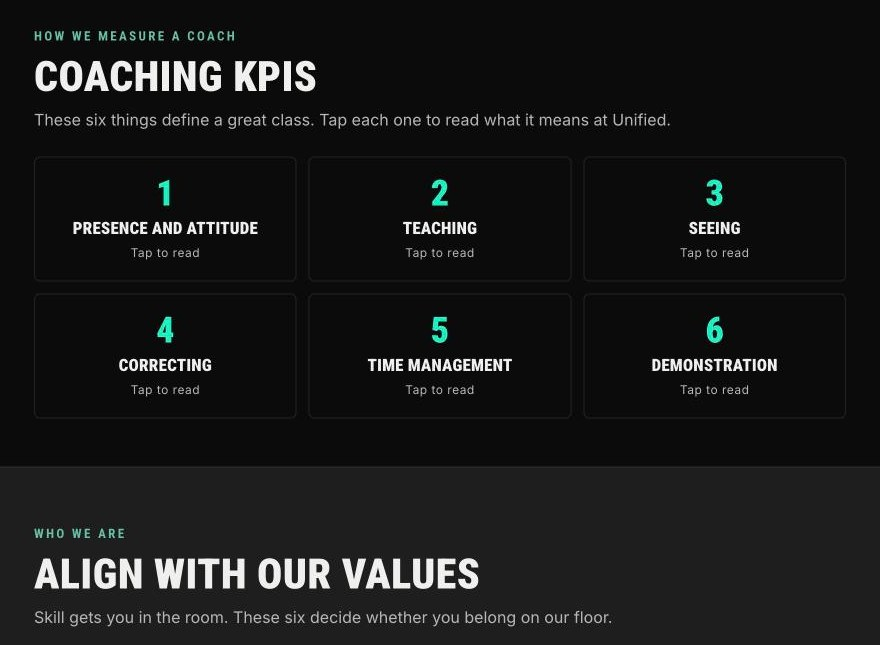
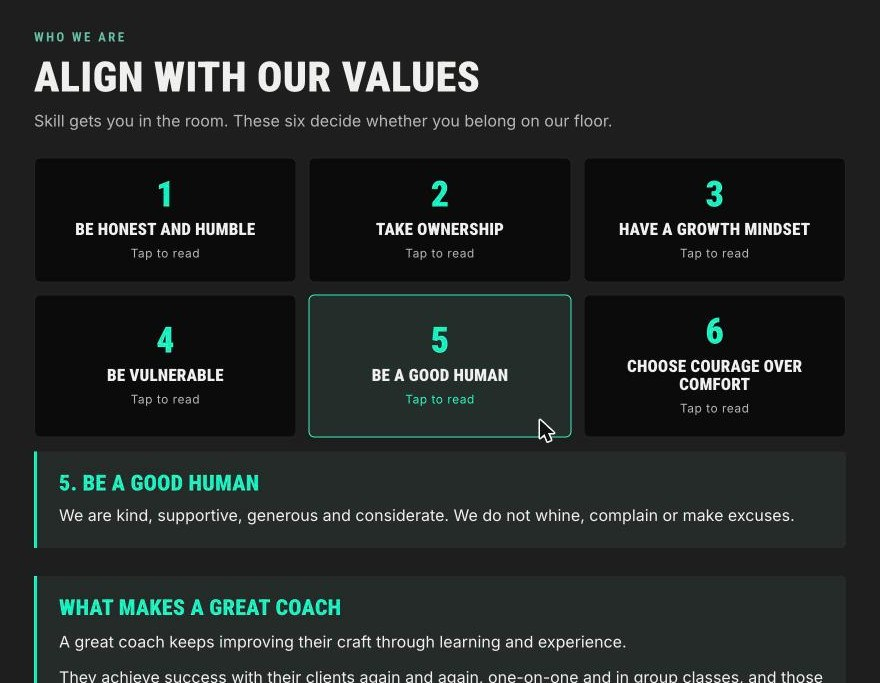
Add files via upload

diff --git a/systems.html b/systems.html
@@ -82,6 +82,19 @@
     </ol>
   </section>
 
+  <section class="block" id="season">
+    <div class="wide-copy">
+      <p class="tag">Seasonal flow</p>
+      <h2>A keyword that feeds the Black Friday page</h2>
+      <p>The same pattern runs a seasonal offer. Someone comments or messages SEASON and gets the free class schedule with a button to claim three classes. The button opens the Black Friday landing page.</p>
+      <p>A click tags the contact. After 23 hours, anyone with the tag gets the BRIK Strength Primer. Anyone without it gets a reminder that the classes are still waiting.</p>
+    </div>
+    <figure class="snap wide">
+      <a class="scroll" href="images/manychat-season-flow.png" target="_blank" rel="noopener" aria-label="Open the full size screenshot of the SEASON flow in a new tab"><img src="images/manychat-season-flow.png" width="2000" height="617" loading="lazy" alt="Screenshot of the SEASON automation in ManyChat. A message containing SEASON sends a text with an Unwrap my classes button, then the free class schedule image with a Claim 3 free classes button. A click adds the season-link-clicked tag. After a 23 hour delay a condition checks the tag: contacts with it get the BRIK Strength Primer, and contacts without it get a reminder that their classes are waiting."></a>
+      <figcaption>The live flow in ManyChat. The counts are early. Tap the image to open it full size.</figcaption>
+    </figure>
+  </section>
+
   <section class="block" id="site">
     <div>
       <p class="tag">The front end</p>
@@ -164,8 +177,8 @@
       <div class="tools coach">
         <div><h3>Macro calculator</h3><p>Coaches use it to give a member a baseline for daily calories and macros, then adjust at each meeting or session based on how the member's results and energy levels are trending. Nothing a member enters is saved or sent. I am now building a standalone app that would add Apple Health and Polar integrations.</p><a class="btn" href="macro-calculator.html">Open the calculator</a></div>
         <div><h3>Workout timer</h3><p>A large clock for the gym TV with AMRAP, EMOM, interval and stopwatch modes. It starts up to six groups in separate waves, so a staggered start can match the number of members to the equipment. Class management is a big part of our coaching KPIs, which come from the CrossFit Level 2 seminar: run every class inside a 45 to 60 minute window. The staggered start has cut confusion and questions and improved class flow.</p><a class="btn" href="https://www.unifiedfitguam.com/timer" target="_blank" rel="noopener">Open the timer</a></div>
-        <div><h3>Coach operations SOP</h3><p>Opening and closing, attendance, drop-ins, retail and coaching KPIs, plus a minute-by-minute lesson plan for a 60 minute class. The page is private to staff, so this is a screenshot of one section.</p><figure class="snap"><img src="images/snap-coach-sop.jpg" width="880" height="688" loading="lazy" alt="Screenshot of the Lesson Plan section of the coach operations SOP, listing the first five blocks of a 60 minute class with their time ranges"><figcaption>The lesson plan section of the SOP</figcaption></figure></div>
-        <div><h3>Coach expectations</h3><p>Shared personally with coaching applicants. It sets out the six coaching KPIs, the values we hire for, the handbook and availability. Private, so this is a screenshot of the opening sections.</p><figure class="snap"><img src="images/snap-coach-expectations.jpg" width="880" height="645" loading="lazy" alt="Screenshot of the coach expectations page showing the six coaching KPIs and the start of the values section"><figcaption>The KPIs and values sections for applicants</figcaption></figure></div>
+        <div><h3>Coach operations SOP</h3><p>Opening and closing, attendance, drop-ins, retail and coaching KPIs, plus a minute-by-minute lesson plan for a 60 minute class. Each KPI card opens to explain what it means in our gym. The page is private to staff, so this is a recording of one section.</p><figure class="snap"><picture><source media="(prefers-reduced-motion: reduce)" srcset="images/snap-coach-sop.jpg"><img src="images/snap-coach-sop.gif" width="760" height="589" loading="lazy" alt="Recording of the coaching KPIs section of the coach operations SOP. Tapping Teaching, Seeing and then Time management opens a short explanation under the cards each time."></picture><figcaption>Tap a card and the SOP explains it. Recording of the live page.</figcaption></figure></div>
+        <div><h3>Coach expectations</h3><p>Shared personally with coaching applicants. It sets out the six coaching KPIs, the values we hire for, the handbook and availability. Private, so this is a recording of the values section, where each card opens when tapped.</p><figure class="snap"><picture><source media="(prefers-reduced-motion: reduce)" srcset="images/snap-coach-expectations.jpg"><img src="images/snap-coach-expectations.gif" width="760" height="589" loading="lazy" alt="Recording of the values section of the coach expectations page. Tapping Be honest and humble, Take ownership and Be a good human opens a one line explanation under the cards each time."></picture><figcaption>Applicants tap each value to read what it means. Recording of the live page.</figcaption></figure></div>
       </div>
     </div>
   </section>

diff --git a/styles.css b/styles.css
@@ -446,3 +446,11 @@ footer{background:var(--black);color:var(--grey);padding-top:22px;padding-bottom
 .snap{margin:16px 0 0;max-width:520px;}
 .snap img{display:block;width:100%;height:auto;border:1px solid rgba(242,242,238,.18);border-top:3px solid var(--spark);}
 .snap figcaption{margin-top:8px;font-size:14px;line-height:1.4;color:#B8B8B2;}
+
+.wide-copy{grid-column:1/-1;max-width:46em;}
+.snap.wide{grid-column:1/-1;max-width:none;margin:0;}
+.snap.wide .scroll{display:block;overflow-x:auto;}
+.snap.wide img{border-top-color:var(--spark);}
+@media (max-width:700px){.snap.wide img{min-width:920px;}}
+.snap.wide,.wide-copy{min-width:0;}
+@media (max-width:700px){#season{grid-template-columns:minmax(0,1fr);}}
